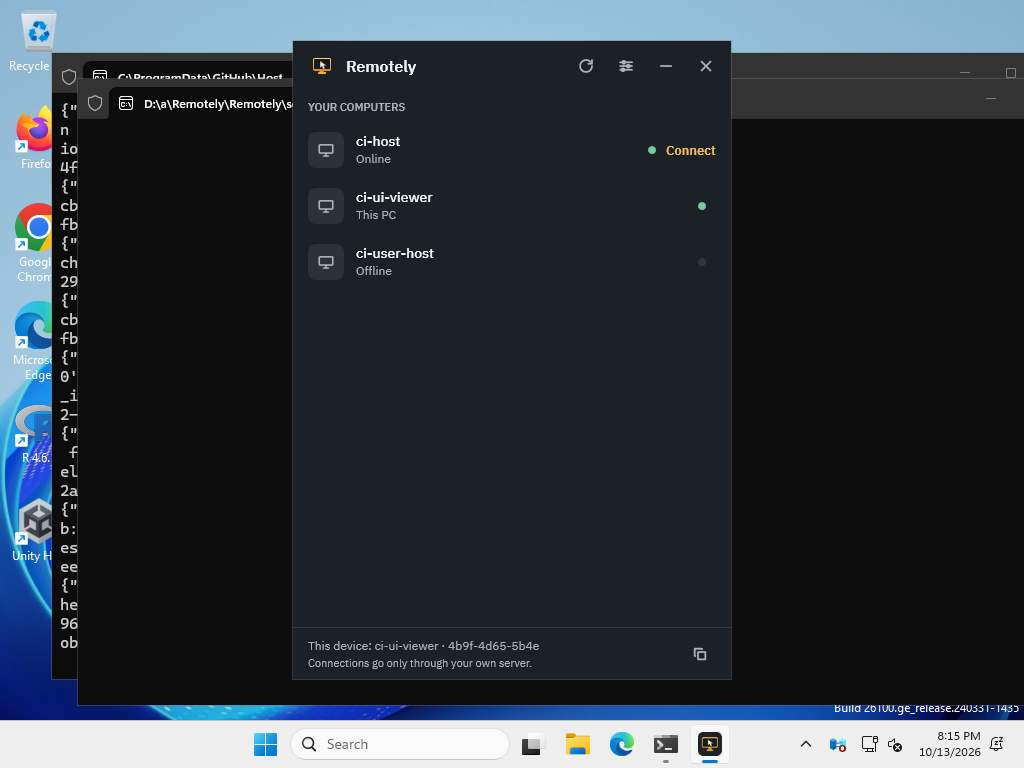
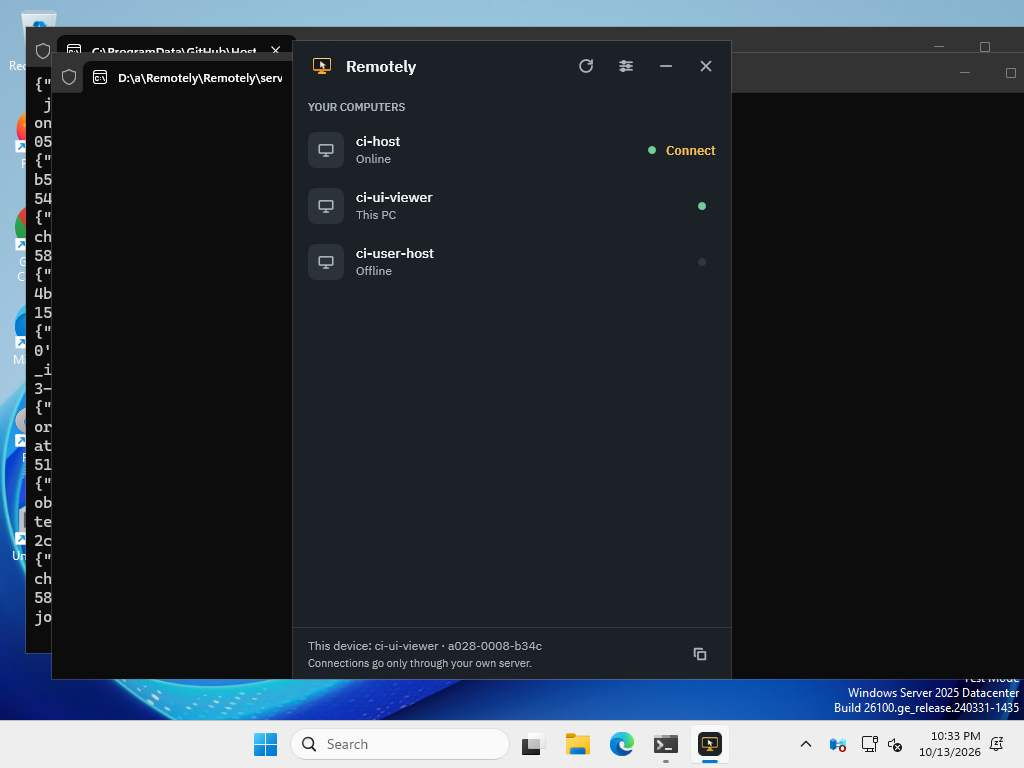
Docs: invite-flow evidence and the new first-run screenshot
Claude-Session: https://claude.ai/code/session_011mkUzWGx7EZ5QgByAWYn6N

Changed region(s): [[0.0, 0.0312, 1.0, 0.875], [0.0625, 0.875, 1.0, 0.9688], [0.4375, 0.8125, 0.5312, 0.8438]]

diff --git a/docs/architecture.md b/docs/architecture.md
@@ -65,7 +65,8 @@ your server, so the server's PC and the invites are the thing to protect. `trust
 | TLS pinning | CI installs the server with its installer and pairs over `wss://` with the pin; a wrong pin is refused |
 | The Windows viewer launches, pairs, lists devices and opens a live session | CI launches the real `Remotely.exe` on Windows and checks the host saw it connect |
 | The macOS `.dmg` is a universal build | The `mac` workflow builds the Intel + Apple-silicon binaries, checks each one with `lipo -archs` for both `x86_64` and `arm64`, and attaches the `.dmg` to the draft release (CI run 38467937154). Nothing was launched on a real Mac |
-| Windows viewer appearance | Screenshots taken by CI on a real Windows x64 runner: [settings](screenshots/viewer-settings.jpg), [device list](screenshots/viewer-devices.jpg), [live session](screenshots/viewer-session.jpg) (the session shows the runner's own desktop, so it repeats inside itself) |
+| Joining with an invite | CI, Windows x64 and ARM64: the server prints an invite; a service host is set up from the invite alone (family mode, no pin, code or trust list) and a viewer started with `--invite` joins and connects to it; the installers do the same silently. CI, macOS: a Swift viewer joins with the invite and a Swift host in family mode lets it in. The invite string is also checked against a known value built outside both implementations |
+| Windows viewer appearance | Screenshots taken by CI on a real Windows x64 runner: [first run: paste the invite](screenshots/viewer-welcome.jpg), [device list](screenshots/viewer-devices.jpg), [live session](screenshots/viewer-session.jpg) (the session shows the runner's own desktop, so it repeats inside itself) |
 | Swift code is byte-compatible with .NET | Known-answer vectors generated by .NET (AES-GCM frame, HKDF output, ECDSA signature, field framing), plus CI interop between the Swift host and the .NET viewer, and the .NET host and the Swift viewer, through the real server |
 
 Last full green run: build 38462452002 (Windows x64 and ARM64 end-to-end, installer smoke on both, draft release) and mac 38467937154 (Swift tests, both-direction interop with the .NET side, universal `.dmg`), both on commit ab3d6ff or its descendants. Bugs the CI found along the way (viewer start-up crash from duplicate icon keys, a Swift pairing race, wrong-pin errors not reported) are fixed in the history.
